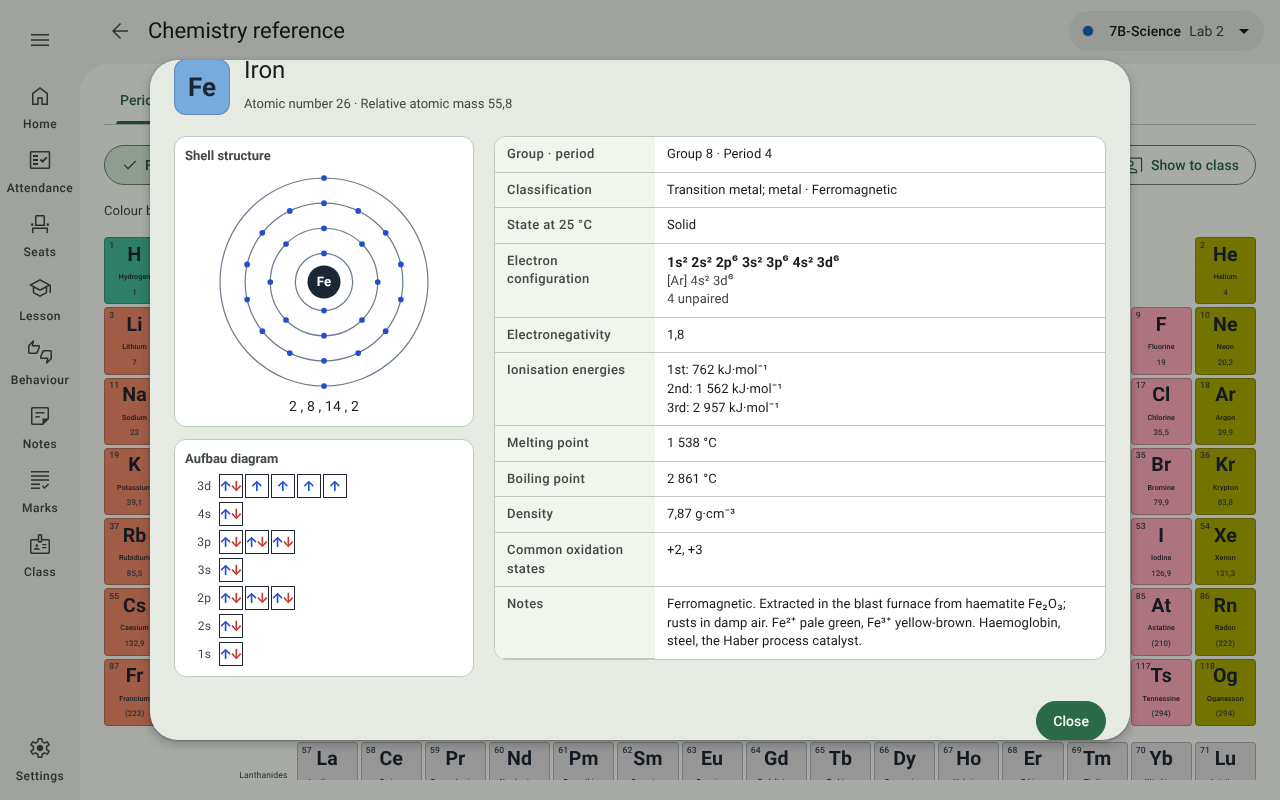
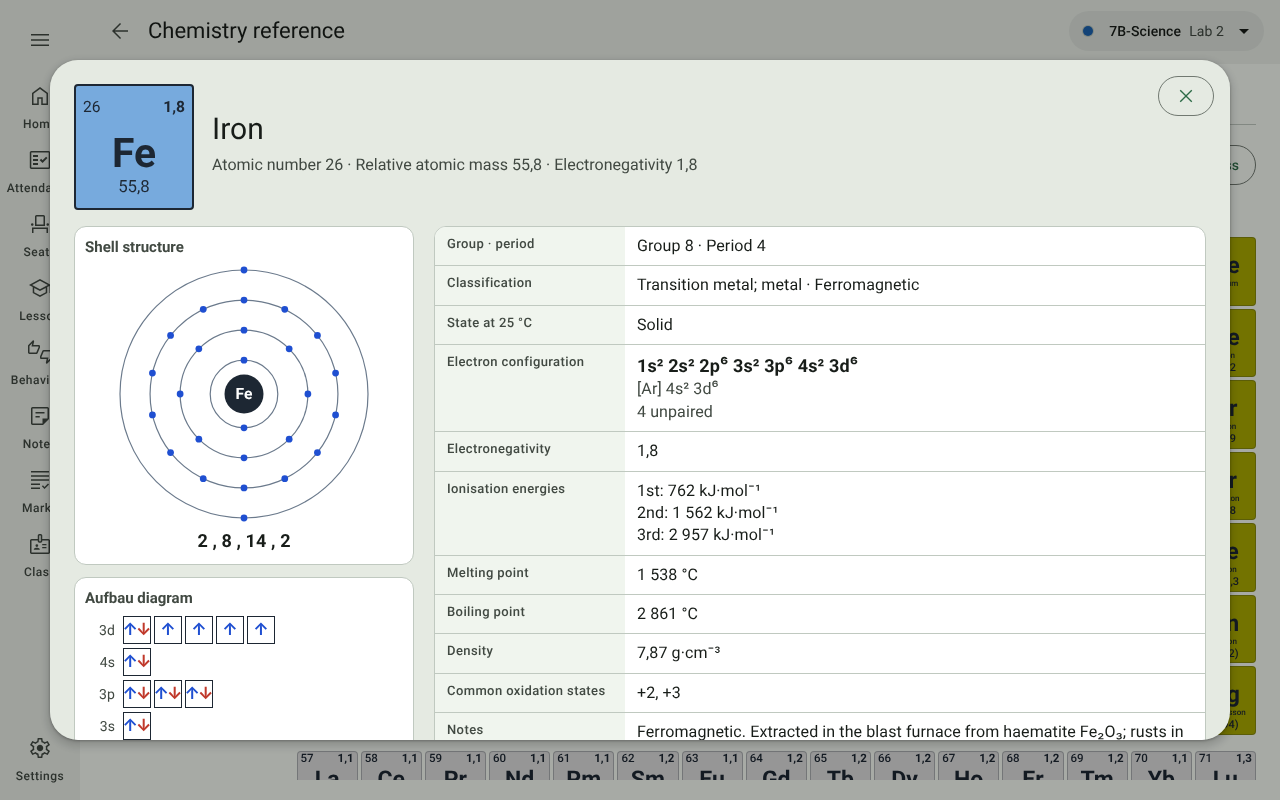
Periodic table: data-sheet blocks, bigger type, a compact simplified view
Each block now reads as the data sheet prints it: atomic number top
left, electronegativity top right, symbol, relative atomic mass, in
larger type. The simplified table collapses groups 3–12 to a gap so the
first 20 elements sit large in their own places, with the extras in
atomic-number order underneath. The pop-up opens with the element's
data-sheet block and classroom-sized text, and a close button at the
top so it no longer opens scrolled to its foot.

Claude-Session: https://claude.ai/code/session_0193853fsNS1v3Jr8s79pmLB

diff --git a/src/plugins/chemistry/chemistry.css b/src/plugins/chemistry/chemistry.css
@@ -3,20 +3,28 @@
 .chemistry.class-view { position: fixed; inset: 0; z-index: var(--z-class-view); background: var(--bg); padding: 16px 24px; }
 .chem-module { display: flex; flex-direction: column; gap: 10px; min-height: 0; flex: 1; overflow-y: auto; }
 .chem-bar { display: flex; align-items: center; gap: 14px; flex-wrap: wrap; }
-.chem-hint { font-size: 13px; }
+.chem-hint { font-size: 15px; }
 
 /* The table */
 .pt { display: flex; flex-direction: column; gap: 10px; container-type: inline-size; }
 .pt-toolbar { display: flex; flex-wrap: wrap; gap: 8px 24px; align-items: center; }
 .pt-toolbar-group { display: flex; align-items: center; gap: 8px; flex-wrap: wrap; }
-.pt-toolbar-label { font-size: 13px; color: var(--text-dim); }
+.pt-toolbar-label { font-size: 14px; color: var(--text-dim); }
 .pt-grid {
   display: grid; grid-template-columns: repeat(18, minmax(0, 1fr)); grid-template-rows: repeat(7, auto) 10px repeat(2, auto);
   gap: 3px; width: 100%;
 }
+/* The simplified table: groups 1–2, a gap for 3–12, groups 13–18; the extras under a label. */
+.pt-grid.simplified {
+  grid-template-columns: repeat(2, minmax(0, 1fr)) minmax(24px, 0.5fr) repeat(6, minmax(0, 1fr));
+  grid-template-rows: repeat(4, auto) auto repeat(3, auto);
+  gap: 5px; max-width: 1100px; margin: 0 auto;
+}
+.pt-gap-label { border: none; writing-mode: vertical-rl; transform: rotate(180deg); font-size: 12px; opacity: 0.8; }
+.pt-extras-label { border: none; border-top: 1px solid var(--border); border-radius: 0; justify-content: flex-start; padding: 10px 0 2px; font-size: 14px; }
 .pt-cell {
-  position: relative; display: flex; flex-direction: column; align-items: center; justify-content: center;
-  aspect-ratio: 1 / 1.1; min-width: 0; min-height: 0; padding: 0; margin: 0; line-height: 1.05;
+  position: relative; display: flex; flex-direction: column; align-items: center; justify-content: space-between;
+  aspect-ratio: 1 / 1.12; min-width: 0; min-height: 0; padding: 3% 5% 4%; margin: 0; gap: 0; line-height: 1; letter-spacing: 0;
   border: 1px solid rgba(29, 39, 51, 0.25); border-radius: 4px; color: #1d2733; cursor: pointer;
   transition: opacity 0.15s, transform 0.1s;
 }
@@ -27,42 +35,55 @@
 .pt-cell.mark-diatomic { outline: 3px dashed #1d2733; outline-offset: -2px; }
 .pt-cell.mark-ferromagnetic { outline: 3px solid #1d2733; outline-offset: -2px; }
 .pt-cell.mark-radioactive { outline: 3px dotted #1d2733; outline-offset: -2px; }
-.pt-z { position: absolute; top: 4%; left: 7%; font-size: clamp(7px, 0.75cqw, 12px); color: #3b4651; }
-.pt-symbol { font-size: clamp(11px, 1.7cqw, 28px); font-weight: 700; }
-.pt-name { font-size: clamp(5px, 0.62cqw, 11px); white-space: nowrap; overflow: hidden; max-width: 96%; text-overflow: ellipsis; }
-.pt-mass { font-size: clamp(6px, 0.68cqw, 11px); color: #3b4651; font-variant-numeric: tabular-nums; }
+/* Laid out as the data sheet prints a block: number top left, electronegativity top right, symbol, mass. */
+.pt-top { display: flex; justify-content: space-between; width: 100%; font-size: clamp(8px, 1cqw, 16px); line-height: 1; }
+.pt-z { color: #1d2733; }
+.pt-en { font-weight: 600; color: #1d2733; font-variant-numeric: tabular-nums; }
+.pt-symbol { font-size: clamp(12px, 2cqw, 34px); font-weight: 700; }
+.pt-name { font-size: clamp(6px, 0.7cqw, 12px); white-space: nowrap; overflow: hidden; max-width: 96%; text-overflow: ellipsis; }
+.pt-mass { font-size: clamp(8px, 0.95cqw, 15px); color: #1d2733; font-variant-numeric: tabular-nums; }
 .pt-badge { position: absolute; right: 6%; bottom: 2%; font-size: clamp(8px, 1cqw, 14px); font-weight: 700; }
+.pt-grid.simplified .pt-top { font-size: clamp(10px, 1.5cqw, 20px); }
+.pt-grid.simplified .pt-symbol { font-size: clamp(16px, 3.6cqw, 48px); }
+.pt-grid.simplified .pt-name { font-size: clamp(8px, 1.1cqw, 15px); }
+.pt-grid.simplified .pt-mass { font-size: clamp(10px, 1.5cqw, 20px); }
 .pt-placeholder { display: flex; align-items: center; justify-content: center; font-size: clamp(7px, 0.75cqw, 12px); color: var(--text-dim); border: 1px dashed var(--border); border-radius: 4px; }
 .pt-fblock-label { border: none; justify-content: flex-end; padding-right: 6px; }
-@container (max-width: 700px) { .pt-name { display: none; } }
+@container (max-width: 1000px) { .pt-grid.full .pt-name { display: none; } }
 
-.pt-legend { display: flex; flex-wrap: wrap; gap: 6px 14px; align-items: center; font-size: 13px; }
-.pt-legend-item { display: inline-flex; align-items: center; gap: 6px; padding: 2px 6px; border: 1px solid transparent; border-radius: var(--md-shape-s); background: none; color: var(--text); font-size: 13px; min-height: 28px; }
+.pt-legend { display: flex; flex-wrap: wrap; gap: 6px 14px; align-items: center; font-size: 14px; }
+.pt-legend-item { display: inline-flex; align-items: center; gap: 6px; padding: 2px 6px; border: 1px solid transparent; border-radius: var(--md-shape-s); background: none; color: var(--text); font-size: 14px; min-height: 30px; }
 .pt-legend-item.on { border-color: var(--md-primary); background: var(--accent-soft); }
 .pt-swatch { width: 16px; height: 16px; border-radius: 3px; border: 1px solid rgba(29, 39, 51, 0.25); }
 
-/* The element pop-up */
-.modal.chem-element-modal { max-width: min(94vw, 980px); width: min(94vw, 980px); }
-.chem-title { display: flex; align-items: center; gap: 14px; font-size: 24px; }
-.chem-title-symbol { display: inline-flex; align-items: center; justify-content: center; width: 56px; height: 56px; border-radius: var(--md-shape-m); font-weight: 700; font-size: 26px; color: #1d2733; border: 1px solid rgba(29, 39, 51, 0.25); }
-.chem-title-sub { display: block; font-size: 13px; color: var(--text-dim); margin-top: 2px; }
-.chem-element { display: grid; grid-template-columns: minmax(240px, 300px) 1fr; gap: 20px; }
+/* The element pop-up — classroom-sized type */
+.modal.chem-element-modal { position: relative; max-width: min(96vw, 1180px); width: min(96vw, 1180px); font-size: 16px; }
+.chem-close { position: absolute; top: 16px; right: 16px; }
+.chem-title { display: flex; align-items: center; gap: 18px; font-size: 30px; }
+.chem-title-sub { display: block; font-size: 16px; color: var(--text-dim); margin-top: 4px; }
+/* The data sheet's block */
+.chem-block { position: relative; display: inline-flex; align-items: center; justify-content: center; flex: none; border: 2px solid #1d2733; border-radius: 4px; color: #1d2733; }
+.chem-block-z { position: absolute; top: 4%; left: 6%; font-size: 1.3em; }
+.chem-block-en { position: absolute; top: 4%; right: 6%; font-size: 1.3em; font-weight: 600; }
+.chem-block-symbol { font-size: 3.4em; font-weight: 700; line-height: 1; margin-top: 0.3em; }
+.chem-block-mass { position: absolute; bottom: 5%; left: 0; right: 0; text-align: center; font-size: 1.4em; }
+.chem-element { display: grid; grid-template-columns: minmax(280px, 340px) 1fr; gap: 20px; }
 .chem-element-diagrams { display: flex; flex-direction: column; gap: 12px; }
 .chem-diagram { background: var(--field); border: 1px solid var(--border); border-radius: var(--radius); padding: 10px; }
-.chem-diagram h4 { margin: 0 0 6px; font-size: 13px; color: var(--text-dim); font-weight: 600; }
+.chem-diagram h4 { margin: 0 0 6px; font-size: 15px; color: var(--text-dim); font-weight: 600; }
 .chem-bohr { display: block; margin: 0 auto; max-width: 100%; height: auto; }
-.chem-shells { text-align: center; font-size: 14px; font-variant-numeric: tabular-nums; margin-top: 4px; }
+.chem-shells { text-align: center; font-size: 18px; font-weight: 600; font-variant-numeric: tabular-nums; margin-top: 4px; }
 .chem-aufbau { display: flex; flex-direction: column; gap: 4px; }
 .chem-aufbau-row { display: flex; align-items: center; gap: 8px; }
-.chem-aufbau-label { width: 26px; font-size: 12px; text-align: right; color: var(--text-dim); font-variant-numeric: tabular-nums; }
-.chem-aufbau-boxes { display: flex; gap: 2px; }
-.chem-box { display: inline-flex; align-items: center; justify-content: center; width: 24px; height: 24px; border: 1.5px solid #1d2733; background: #fff; font-size: 14px; line-height: 1; color: #1f4fd1; font-weight: 700; }
+.chem-aufbau-label { width: 30px; font-size: 14px; text-align: right; color: var(--text-dim); font-variant-numeric: tabular-nums; }
+.chem-aufbau-boxes { display: flex; gap: 3px; }
+.chem-box { display: inline-flex; align-items: center; justify-content: center; width: 28px; height: 28px; border: 1.5px solid #1d2733; background: #fff; font-size: 17px; line-height: 1; color: #1f4fd1; font-weight: 700; }
 .chem-box.empty { border-color: #9aa3ad; }
 .chem-arrow.down { margin-left: -2px; color: #c0392b; }
-.chem-facts th { text-align: left; width: 160px; vertical-align: top; color: var(--text-dim); font-weight: 600; }
+.chem-facts th { text-align: left; width: 190px; vertical-align: top; color: var(--text-dim); font-weight: 600; }
 .chem-facts td { vertical-align: top; }
-.chem-facts td, .chem-facts th { padding: 5px 8px; font-size: 13px; }
-.chem-config { font-size: 14px; font-weight: 600; }
+.chem-facts td, .chem-facts th { padding: 7px 10px; font-size: 16px; line-height: 1.4; }
+.chem-config { font-size: 18px; font-weight: 600; }
 .chem-check { color: var(--warn); }
 
 @media (max-width: 760px) {

diff --git a/src/plugins/chemistry/PeriodicTable.tsx b/src/plugins/chemistry/PeriodicTable.tsx
@@ -1,6 +1,6 @@
 import { useMemo, useState } from "react";
 import Segmented from "../../components/Segmented";
-import { formatNumber } from "../numbers";
+import { formatFixed, formatNumber } from "../numbers";
 import {
   CATEGORY_COLOURS,
   CATEGORY_NAMES,
@@ -8,9 +8,9 @@ import {
   ELEMENTS,
   Element,
   gridPosition,
-  inSimplifiedTable,
   massInBrackets,
   metalCharacter,
+  simplifiedPosition,
 } from "./elements";
 
 export type TableView = "full" | "simplified";
@@ -27,6 +27,11 @@ const HIGHLIGHTS: Array<{ key: Highlight; label: string; test: (e: Element) => b
   { key: "ferromagnetic", label: "Ferromagnetic", test: (e) => !!e.ferromagnetic },
   { key: "radioactive", label: "Radioactive", test: (e) => !!e.radioactive },
 ];
+
+/** The electronegativity as the data sheet prints it, or nothing. */
+export function enText(e: Element): string {
+  return e.en === undefined ? "" : formatFixed(e.en, 1);
+}
 
 /** The relative atomic mass as the data sheet prints it: "35,5", "(98)". */
 export function massText(e: Element): string {
@@ -113,44 +118,55 @@ export default function PeriodicTable({
 
       <div className={`pt-grid ${view}`} role="grid" aria-label={view === "full" ? "Periodic table" : "Simplified periodic table"}>
         {ELEMENTS.map((e) => {
-          const { column, row } = gridPosition(e);
-          const shown = view === "full" || inSimplifiedTable(e);
+          const position = view === "full" ? gridPosition(e) : simplifiedPosition(e);
+          if (!position) return null;
           const marks = HIGHLIGHTS.filter((h) => highlights.has(h.key) && h.test(e)).map((h) => h.key);
           return (
             <button
               key={e.z}
-              className={`pt-cell ${shown ? "shown" : "hidden-element"} ${dimmed(e) ? "dim" : ""} ${marks.map((m) => `mark-${m}`).join(" ")} ${selected?.z === e.z ? "selected" : ""}`}
-              style={{ gridColumn: column, gridRow: row, background: shown ? cellColour(e, colourBy) : undefined }}
-              onClick={() => shown && onSelect(e)}
-              disabled={!shown}
+              className={`pt-cell shown ${dimmed(e) ? "dim" : ""} ${marks.map((m) => `mark-${m}`).join(" ")} ${selected?.z === e.z ? "selected" : ""}`}
+              style={{ gridColumn: position.column, gridRow: position.row, background: cellColour(e, colourBy) }}
+              onClick={() => onSelect(e)}
               aria-label={`${e.name}, ${e.symbol}, atomic number ${e.z}`}
-              title={shown ? `${e.name} (${e.z})` : undefined}
+              title={`${e.name} (${e.z})`}
               data-z={e.z}
             >
-              {shown && (
-                <>
-                  <span className="pt-z">{e.z}</span>
-                  <span className="pt-symbol">{e.symbol}</span>
-                  <span className="pt-name">{e.name}</span>
-                  <span className="pt-mass">{massText(e)}</span>
-                  {e.diatomic && highlights.has("diatomic") && <span className="pt-badge">₂</span>}
-                </>
-              )}
+              <span className="pt-top">
+                <span className="pt-z">{e.z}</span>
+                <span className="pt-en">{enText(e)}</span>
+              </span>
+              <span className="pt-symbol">{e.symbol}</span>
+              <span className="pt-name">{e.name}</span>
+              <span className="pt-mass">{massText(e)}</span>
+              {e.diatomic && highlights.has("diatomic") && <span className="pt-badge">₂</span>}
             </button>
           );
         })}
-        <div className="pt-placeholder" style={{ gridColumn: 3, gridRow: 6 }} aria-hidden="true">
-          57–71
-        </div>
-        <div className="pt-placeholder" style={{ gridColumn: 3, gridRow: 7 }} aria-hidden="true">
-          89–103
-        </div>
-        <div className="pt-placeholder pt-fblock-label" style={{ gridColumn: "2 / 4", gridRow: 9 }} aria-hidden="true">
-          Lanthanides
-        </div>
-        <div className="pt-placeholder pt-fblock-label" style={{ gridColumn: "2 / 4", gridRow: 10 }} aria-hidden="true">
-          Actinides
-        </div>
+        {view === "full" ? (
+          <>
+            <div className="pt-placeholder" style={{ gridColumn: 3, gridRow: 6 }} aria-hidden="true">
+              57–71
+            </div>
+            <div className="pt-placeholder" style={{ gridColumn: 3, gridRow: 7 }} aria-hidden="true">
+              89–103
+            </div>
+            <div className="pt-placeholder pt-fblock-label" style={{ gridColumn: "2 / 4", gridRow: 9 }} aria-hidden="true">
+              Lanthanides
+            </div>
+            <div className="pt-placeholder pt-fblock-label" style={{ gridColumn: "2 / 4", gridRow: 10 }} aria-hidden="true">
+              Actinides
+            </div>
+          </>
+        ) : (
+          <>
+            <div className="pt-placeholder pt-gap-label" style={{ gridColumn: 3, gridRow: "1 / 5" }} aria-hidden="true">
+              <span>groups 3–12</span>
+            </div>
+            <div className="pt-placeholder pt-extras-label" style={{ gridColumn: "1 / 10", gridRow: 5 }} aria-hidden="true">
+              Other elements the course meets, in atomic-number order
+            </div>
+          </>
+        )}
       </div>
 
       <div className="pt-legend" aria-label="Key">

diff --git a/src/plugins/chemistry/ElementDialog.tsx b/src/plugins/chemistry/ElementDialog.tsx
@@ -1,8 +1,21 @@
+import Icon from "../../components/Icon";
 import Modal from "../../components/Modal";
 import { formatNumber } from "../numbers";
 import { CATEGORY_COLOURS, CATEGORY_NAMES, Element, massInBrackets, metalCharacter } from "./elements";
 import { configuration, orbitalBoxes, shells, shorthandNotation, spdfNotation, unpairedElectrons, valenceElectrons } from "./electrons";
-import { massText } from "./PeriodicTable";
+import { enText, massText } from "./PeriodicTable";
+
+/** An element's block as the data sheet prints it: number top left, electronegativity top right, symbol, mass. */
+export function DataSheetBlock({ element, size = 120 }: { element: Element; size?: number }) {
+  return (
+    <span className="chem-block" style={{ width: size, height: size * 1.05, background: CATEGORY_COLOURS[element.category], fontSize: size / 10 }} aria-hidden="true">
+      <span className="chem-block-z">{element.z}</span>
+      <span className="chem-block-en">{enText(element)}</span>
+      <span className="chem-block-symbol">{element.symbol}</span>
+      <span className="chem-block-mass">{massText(element)}</span>
+    </span>
+  );
+}
 
 const STATE_WORD: Record<Element["state"], string> = { solid: "Solid", liquid: "Liquid", gas: "Gas", unknown: "Not known" };
 
@@ -82,24 +95,27 @@ export default function ElementDialog({ element, onClose }: { element: Element; 
       onClose={onClose}
       title={
         <span className="chem-title">
-          <span className="chem-title-symbol" style={{ background: CATEGORY_COLOURS[e.category] }}>
-            {e.symbol}
-          </span>
+          <DataSheetBlock element={e} />
           <span>
             {e.name}
             <span className="chem-title-sub">
               Atomic number {e.z} · Relative atomic mass {massText(e)}
               {massInBrackets(e) ? " (longest-lived isotope)" : ""}
+              {e.en !== undefined ? ` · Electronegativity ${enText(e)}` : ""}
             </span>
           </span>
         </span>
       }
     >
+      {/* First in the dialog, so focus lands at the top rather than on the Close button at the bottom. */}
+      <button className="icon-only chem-close" onClick={onClose} title="Back to the table (Esc)" aria-label="Back to the table">
+        <Icon name="close" size={22} />
+      </button>
       <div className="chem-element">
         <div className="chem-element-diagrams">
           <div className="chem-diagram">
             <h4>Shell structure</h4>
-            <BohrDiagram element={e} />
+            <BohrDiagram element={e} size={260} />
             <div className="chem-shells">{shells(orbitals).join(" , ")}</div>
           </div>
           <div className="chem-diagram">

diff --git a/src/plugins/chemistry/elements.ts b/src/plugins/chemistry/elements.ts
@@ -334,7 +334,7 @@ export function elementBySymbol(symbol: string): Element | undefined {
  * The simplified table: the first 20 elements and the ones a school course
  * keeps meeting after that.
  */
-export const SIMPLIFIED_EXTRAS = ["Cr", "Mn", "Fe", "Co", "Ni", "Cu", "Zn", "Br", "Kr", "Sr", "Ag", "Sn", "I", "Xe", "Ba", "Pt", "Au", "Hg", "Pb", "U"];
+export const SIMPLIFIED_EXTRAS = ["Cr", "Mn", "Fe", "Co", "Ni", "Cu", "Zn", "Br", "Kr", "Sr", "Ag", "Sn", "I", "Xe", "Ba", "Pt", "Au", "Hg", "Pb", "U"]; // in atomic-number order
 
 export function inSimplifiedTable(e: Element): boolean {
   return e.z <= 20 || SIMPLIFIED_EXTRAS.includes(e.symbol);
@@ -346,6 +346,23 @@ export function metalCharacter(e: Element): MetalCharacter {
   if (e.category === "metalloid") return "metalloid";
   if (e.category === "nonmetal" || e.category === "halogen" || e.category === "noble") return "non-metal";
   return "metal";
+}
+
+/**
+ * The simplified table's grid: the first 20 elements in their own places with
+ * groups 3–12 collapsed to a gap (columns 1–2, a gap at 3, then 4–9 for
+ * groups 13–18), rows 1–4; the extras under them in atomic-number order,
+ * left to right, from row 6, eight to a row.
+ */
+export function simplifiedPosition(e: Element): { column: number; row: number } | null {
+  if (!inSimplifiedTable(e)) return null;
+  if (e.z <= 20) {
+    const column = e.group! <= 2 ? e.group! : e.group! - 9; // 13 → 4 … 18 → 9
+    return { column, row: e.period };
+  }
+  const index = SIMPLIFIED_EXTRAS.indexOf(e.symbol);
+  const columns = [1, 2, 4, 5, 6, 7, 8, 9];
+  return { column: columns[index % columns.length], row: 6 + Math.floor(index / columns.length) };
 }
 
 /** Grid position: column 1–18 and row 1–7 for the main body, rows 9 and 10 for the f-block. */

diff --git a/src/plugins/chemistry/elements.test.ts b/src/plugins/chemistry/elements.test.ts
@@ -10,6 +10,7 @@ import {
   inSimplifiedTable,
   massInBrackets,
   metalCharacter,
+  simplifiedPosition,
 } from "./elements";
 
 describe("the element table", () => {
@@ -58,6 +59,21 @@ describe("the element table", () => {
     expect(gridPosition(elementBySymbol("La")!)).toEqual({ column: 4, row: 9 });
     expect(gridPosition(elementBySymbol("Lu")!)).toEqual({ column: 18, row: 9 });
     expect(gridPosition(elementBySymbol("U")!)).toEqual({ column: 7, row: 10 });
+  });
+
+  it("lays the simplified table out compactly: first 20 in place, the extras in order below", () => {
+    expect(simplifiedPosition(elementBySymbol("H")!)).toEqual({ column: 1, row: 1 });
+    expect(simplifiedPosition(elementBySymbol("He")!)).toEqual({ column: 9, row: 1 });
+    expect(simplifiedPosition(elementBySymbol("B")!)).toEqual({ column: 4, row: 2 });
+    expect(simplifiedPosition(elementBySymbol("Ca")!)).toEqual({ column: 2, row: 4 });
+    expect(simplifiedPosition(elementBySymbol("Cr")!)).toEqual({ column: 1, row: 6 });
+    expect(simplifiedPosition(elementBySymbol("Kr")!)).toEqual({ column: 1, row: 7 });
+    expect(simplifiedPosition(elementBySymbol("U")!)).toEqual({ column: 5, row: 8 });
+    expect(simplifiedPosition(elementBySymbol("Sc")!)).toBeNull();
+    const extras = SIMPLIFIED_EXTRAS.map((s) => elementBySymbol(s)!.z);
+    for (let i = 1; i < extras.length; i++) expect(extras[i]).toBeGreaterThan(extras[i - 1]);
+    const cells = new Set(ELEMENTS.filter(inSimplifiedTable).map((e) => JSON.stringify(simplifiedPosition(e))));
+    expect(cells.size).toBe(40);
   });
 
   it("sorts the categories as the legend expects", () => {

diff --git a/e2e/tools.e2e.ts b/e2e/tools.e2e.ts
@@ -191,6 +191,7 @@ test("chemistry reference: the periodic table, its views and highlights, and an 
   await openTool(page, "Chemistry reference");
   await expect(page.locator(".pt-cell.shown")).toHaveCount(118);
   await expect(page.locator(".pt-cell[data-z='17'] .pt-mass")).toHaveText("35,5");
+  await expect(page.locator(".pt-cell[data-z='17'] .pt-en")).toHaveText("3,0");
   // Iron: configuration in filling order, and ferromagnetic.
   await page.locator(".pt-cell[data-z='26']").click();
   const dialog = page.getByRole("dialog");
@@ -209,7 +210,7 @@ test("chemistry reference: the periodic table, its views and highlights, and an 
   await page.locator("main .seg button", { hasText: "Simplified" }).click();
   await expect(page.locator(".pt-cell.shown")).toHaveCount(40);
   await expect(page.locator(".pt-cell[data-z='92']")).toHaveClass(/shown/);
-  await expect(page.locator(".pt-cell[data-z='57']")).toBeDisabled();
+  await expect(page.locator(".pt-cell[data-z='57']")).toHaveCount(0);
 });
 
 test("titration: measured additions move the burette and the pH, the indicator turns, the memo knows the end point", async ({ page }) => {

diff --git a/docs/user-guide/09-teaching-tools.md b/docs/user-guide/09-teaching-tools.md
@@ -217,18 +217,21 @@ their tabs are greyed out until then.
 
 **The periodic table**
 
-- The symbols, relative atomic masses and electronegativities are the **data sheet's** (Cl 35,5; Cu 63,5; masses in
-  brackets for elements with no stable isotope), so the board matches the exam paper.
+- Each block is laid out as the **data sheet** prints it — atomic number top left, electronegativity top right,
+  symbol, relative atomic mass (Cl 35,5; Cu 63,5; masses in brackets for elements with no stable isotope) — so the
+  board matches the exam paper.
 - **Colour by**: **Group** (alkali metals, alkaline earth metals, transition metals, post-transition metals,
   metalloids, non-metals, halogens, noble gases, lanthanides, actinides), **State at 25 °C** or **Metal / non-metal**.
   The colours are a colour-blind-safe set and the key always names them; tap a key entry to show only that set.
 - **Highlight**: the **diatomic** elements (H₂, N₂, O₂, F₂, Cl₂, Br₂, I₂), the **ferromagnetic** ones (Fe, Co, Ni, Gd)
   and the **radioactive** ones. Everything else fades.
-- **Full table** or **Simplified**: the first 20 elements plus Cr, Mn, Fe, Co, Ni, Cu, Zn, Br, Kr, Sr, Ag, Sn, I, Xe,
-  Ba, Pt, Au, Hg, Pb and U, in their proper places, the rest left as empty outlines.
+- **Full table** or **Simplified**: the first 20 elements in their own places with groups 3–12 collapsed to a gap,
+  so the blocks are big, and under them Cr, Mn, Fe, Co, Ni, Cu, Zn, Br, Kr, Sr, Ag, Sn, I, Xe, Ba, Pt, Au, Hg, Pb and
+  U in atomic-number order.
 - **Show to class** fills the screen; Esc or **Close** comes back.
 
-**An element's pop-up** — tap any element:
+**An element's pop-up** — tap any element. It opens with the element's data-sheet block, in type sized for the
+board:
 
 ![An element's details](../images/periodic-table-element.png)
 
